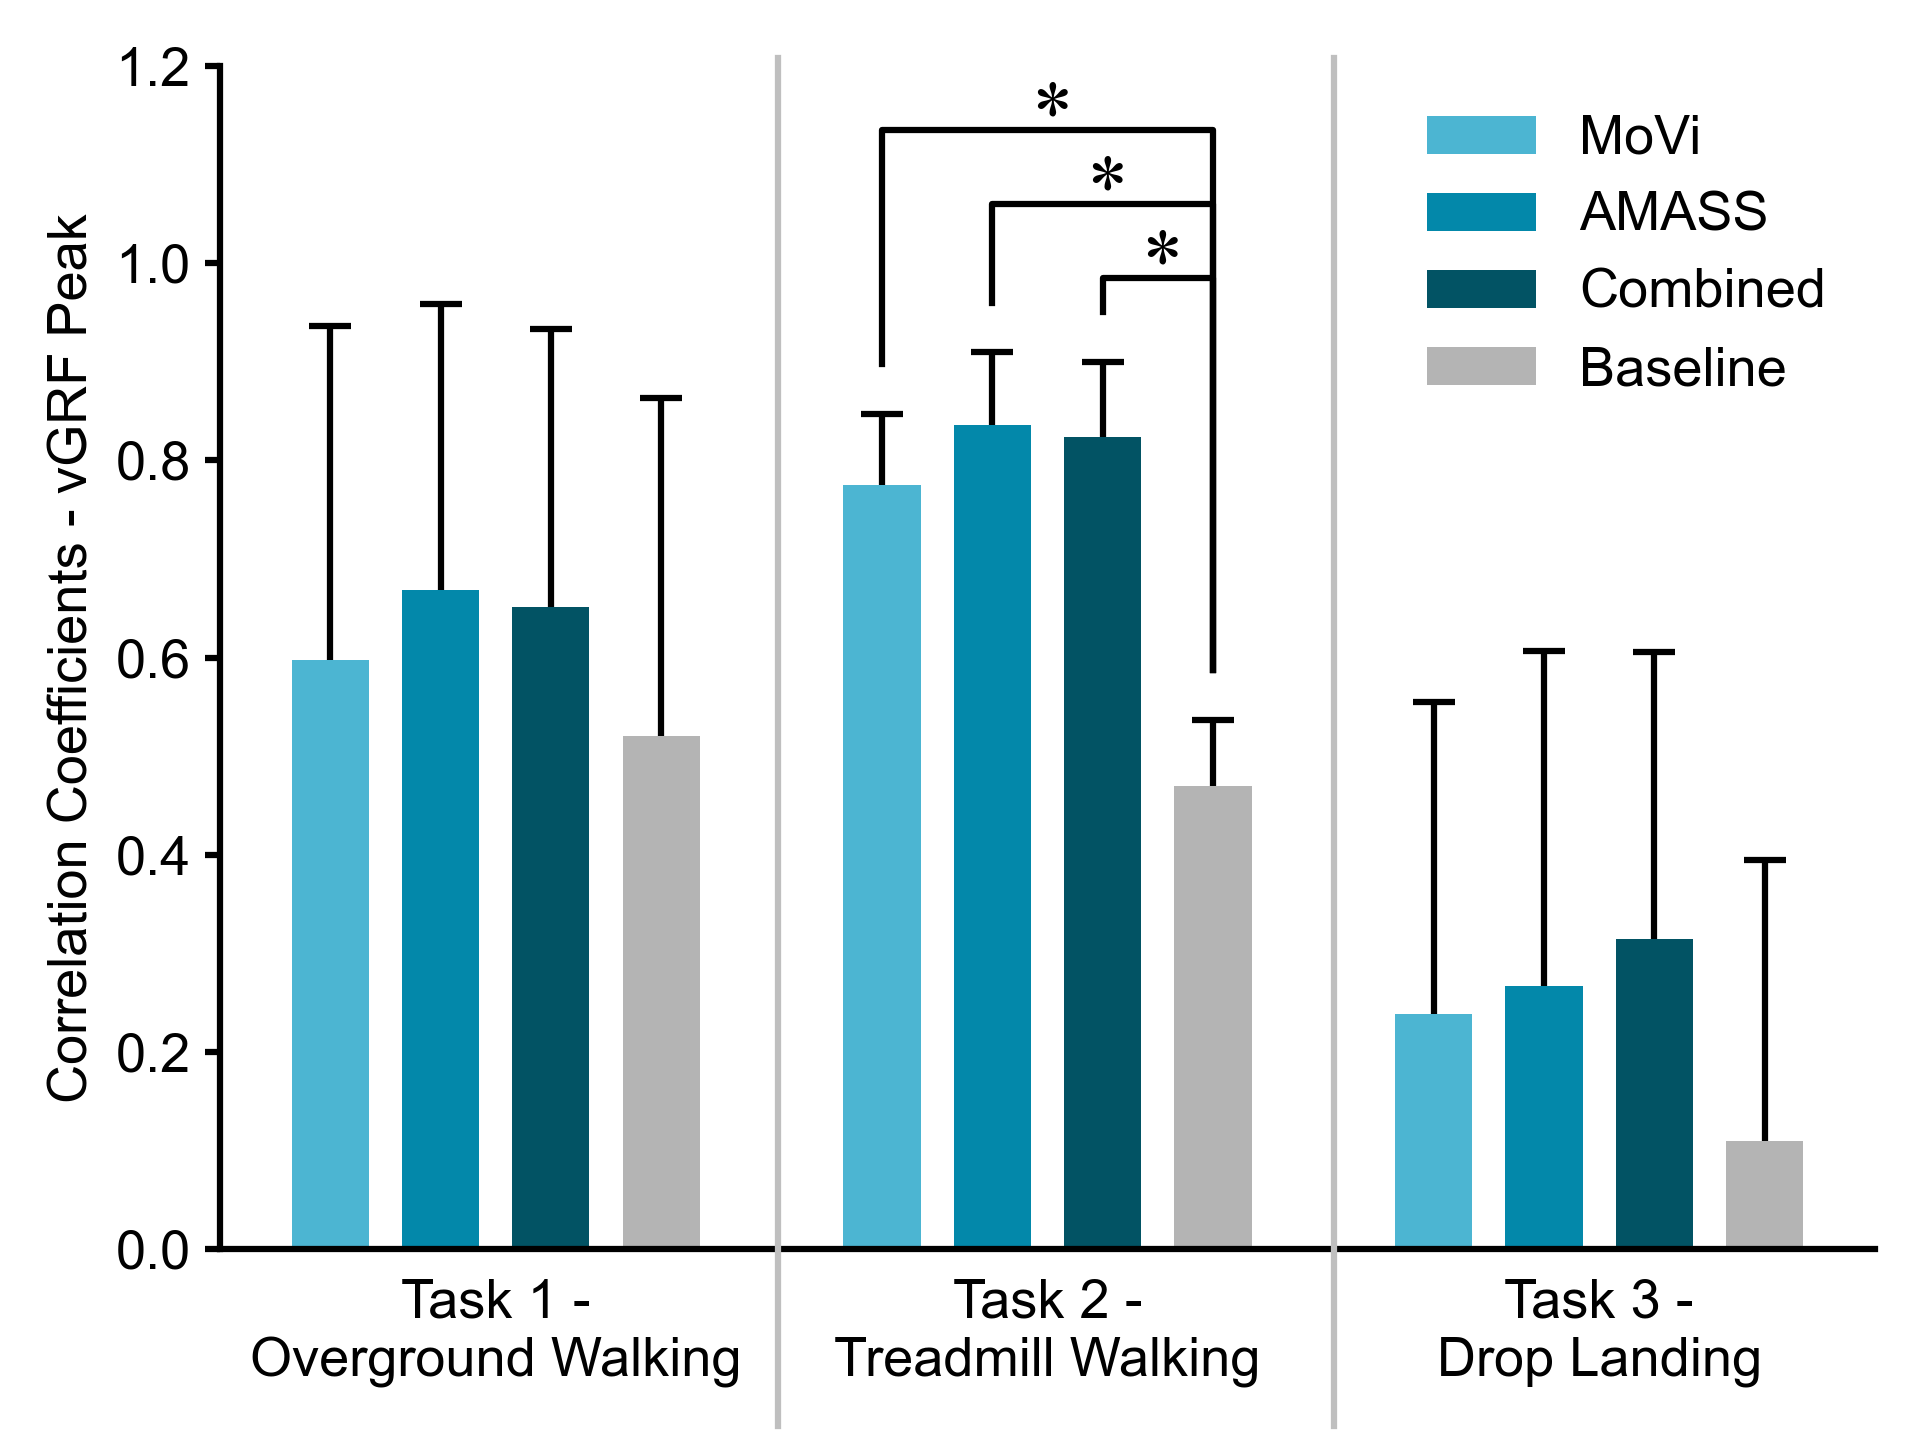
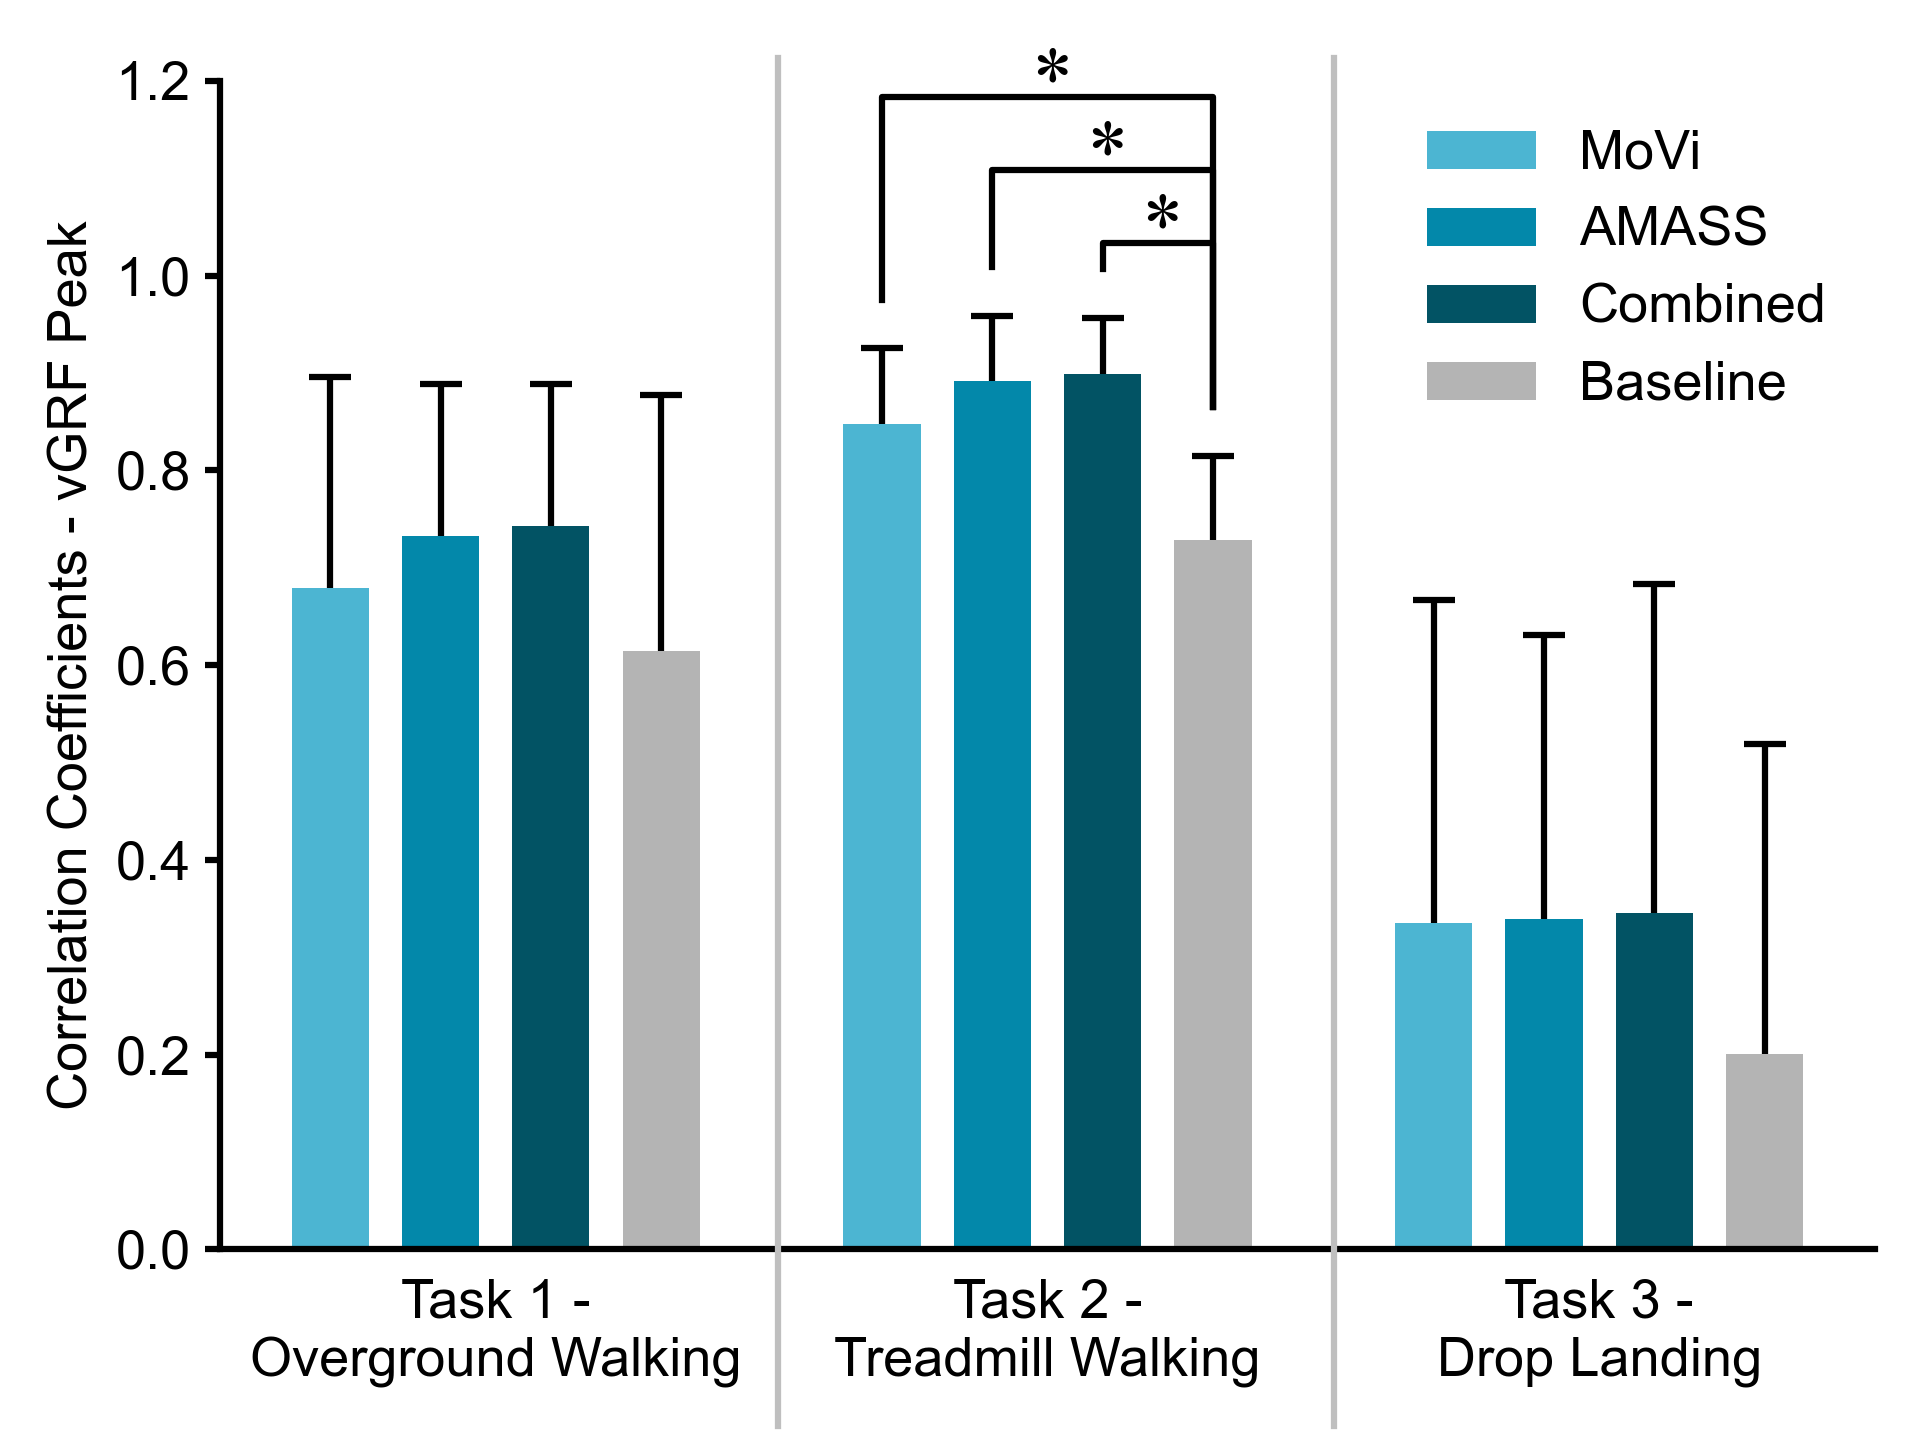
low masking ratio

diff --git a/figures/f13_example.py b/figures/f13_example.py
@@ -1,0 +1,89 @@
+import os, sys
+SCRIPT_DIR = os.path.dirname(os.path.abspath(__file__))
+sys.path.append(os.path.dirname(SCRIPT_DIR))
+import tempfile
+os.environ['MPLCONFIGDIR'] = tempfile.mkdtemp()
+import numpy as np
+import matplotlib.pyplot as plt
+from ssl_main.const import LINE_WIDTH, FONT_DICT, LINE_WIDTH_THICK
+from figures.PaperFigures import save_fig, load_da_data, format_axis
+from ssl_main.config import RESULTS_PATH
+
+
+def plot_example(results_task):
+    def format_ticks():
+        pass
+        ax.set_xlim(0, 1.3)
+        ax.set_xticks([0, 0.3, 0.6, 0.9, 1.2])
+        ax.set_xticklabels([0, 0.3, 0.6, 0.9, 1.2], fontdict=FONT_DICT)
+        ax.set_xlabel('Time (s)', fontdict=FONT_DICT)
+
+        ax.set_ylabel('vGRF (N/kg)', fontdict=FONT_DICT)
+        # if i_da == 0 or i_da == 1:
+        #     ax.set_yticks([0., 0.2, 0.4, 0.6, 0.8, 1])
+        #     ax.set_yticklabels([0., 0.2, 0.4, 0.6, 0.8, 1.], fontdict=FONT_DICT)
+        # elif i_da == 2:
+        #     ax.set_yticks([0., 0.4, 0.8, 1.2, 1.6, 2.])
+        #     ax.set_yticklabels([0., 0.4, 0.8, 1.2, 1.6, 2.], fontdict=FONT_DICT)
+
+    data_key_bl, data_key_ssl = list(results_task.values())
+    ax = plt.gca()
+    data_combind_bl = np.concatenate(list(data_key_bl.values()), axis=0) * 9.81
+    data_combind_ssl = np.concatenate(list(data_key_ssl.values()), axis=0) * 9.81
+    if - np.min(data_combind_bl) > np.max(data_combind_bl):
+        data_combind_bl = - data_combind_bl
+        data_combind_ssl = - data_combind_ssl
+    data_true = data_combind_bl[:, 0, :]
+    data_pred_bl = data_combind_bl[:, 1, :]
+    data_pred_ssl = data_combind_ssl[:, 1, :]
+    rmse = np.sqrt(np.mean((data_true - data_pred_ssl) ** 2, axis=1))
+    median_index = np.argsort(rmse)[len(rmse)//2]
+    ax.plot(np.arange(0, 1.279, 0.01), data_true[median_index, :], color=colors[0], linewidth=LINE_WIDTH*2, label='Force Plate Measurements')
+    ax.plot(np.arange(0, 1.279, 0.01), data_pred_bl[median_index, :], color=colors[1], linewidth=LINE_WIDTH, label='Baseline Model Predictions')
+    ax.plot(np.arange(0, 1.279, 0.01), data_pred_ssl[median_index, :], color=colors[2], linewidth=LINE_WIDTH, label='SSL Model Predictions')
+    plt.title(test_names_print[i_da], fontdict=FONT_DICT)
+    format_ticks()
+
+
+def finalize_fig():
+    plt.tight_layout(rect=[0., 0., 1., .9], w_pad=2)
+    plt.legend(fontsize=FONT_DICT['fontsize'], ncol=3, frameon=False, bbox_to_anchor=(0.2, 1.3))
+
+
+colors = [np.array(x) / 255 for x in [[200, 200, 200], [110, 110, 110], [3, 136, 170]]]
+test_names_print = ('Task 1 - Overground Walking', 'Task 2 - Treadmill Walking', 'Task 3 - Drop Landing')
+
+
+if __name__ == "__main__":
+    da_names = [element + '_output' for element in ['Camargo_levelground', 'walking_knee_moment', 'sun_drop_jump']]
+    test_folder = '2023_08_25_12_05_33_data_ratio_amass'
+    test_names_print = ('Task 1 - Overground Walking', 'Task 2 - Treadmill Walking', 'Task 3 - Drop Landing')
+    data_path = RESULTS_PATH + test_folder + '/'
+    plt.figure(figsize=(12, 4))
+
+    for i_da, da_name in enumerate(da_names):
+        plt.subplot(1, 3, i_da + 1)
+        results_task = load_da_data(data_path + da_name + '.h5')
+        results_task_ = {key_: value_ for key_, value_ in results_task.items()
+                         if 'PatchLen_1' in key_ and 'MaskPatchNum_16' in key_ and 'LinearProb_False' in key_ and
+                         'ratio_1' in key_}
+        plot_example(results_task_)
+
+    finalize_fig()
+    save_fig('f13_example')
+    plt.show()
+
+
+
+
+
+
+
+
+
+
+
+
+
+
+

diff --git a/figures/f3_matrix.py b/figures/f3_matrix.py
@@ -1,5 +1,6 @@
 import os, sys
 from ssl_main.const import FONT_DICT, LINE_WIDTH_THICK
+import copy
 SCRIPT_DIR = os.path.dirname(os.path.abspath(__file__))
 sys.path.append(os.path.dirname(SCRIPT_DIR))
 import tempfile
@@ -53,7 +54,7 @@ def plot_map(i_da, data_all, x_ticks, y_ticks):
         ax.set_yticklabels([])
         ax.tick_params(axis='y', which='both', left=False,  right=False)
 
-    plt.tight_layout(rect=[0.1, 0., 1., 1.], h_pad=-0.1)
+    plt.tight_layout(rect=[0.1, 0., 1., 1.], w_pad=0.2, h_pad=-0.1)
 
 
 def plot_curve(i_da, data_all, x_ticks, curve_labels):
@@ -62,27 +63,26 @@ def plot_curve(i_da, data_all, x_ticks, curve_labels):
     data_combined = np.flip(data_combined, axis=1)
     curve_labels = reversed(curve_labels)
     for i_col in range(data_combined.shape[1]):
-        ax.plot(data_combined[:, i_col], color=colors[i_col], marker="o", markersize=4, linewidth=LINE_WIDTH_THICK)
+        ax.plot([float(ele.split('\n')[0]) for ele in x_ticks],
+                data_combined[:, i_col], color=colors[i_col], marker="o", markersize=4, linewidth=LINE_WIDTH_THICK)
     ax.set_xlabel('Percentage of Masking (%)', fontdict=FONT_DICT, labelpad=5)
-    ax.set_xticks(range(len(x_ticks)))
-    ax.set_xlim(-0.1, len(x_ticks) - 0.9)
-    ax.set_xticklabels(x_ticks, fontdict=FONT_DICT)
-    ax.set_ylabel(r'$R^2$', fontdict=FONT_DICT)
-    # if i_da == 0:
-    #     ax.set_yticks([0.6, 0.7, 0.8, 0.9])
-    #     ax.set_yticklabels([0.6, 0.7, 0.8, 0.9], fontdict=FONT_DICT)
-    #     ax.set_ylim(0.6, 0.9)
-    # elif i_da == 1:
-    #     ax.set_yticks([0.86, 0.88, 0.9, 0.92])
-    #     ax.set_yticklabels([0.86, 0.88, 0.9, 0.92], fontdict=FONT_DICT)
-    #     ax.set_ylim(0.86, 0.92)
-    # elif i_da == 2:
-    #     ax.set_yticks([0.6, 0.7, 0.8, 0.9])
-    #     ax.set_yticklabels([0.6, 0.7, 0.8, 0.9], fontdict=FONT_DICT)
-    #     ax.set_ylim(0.6, 0.9)
+    ax.set_xticks([float(ele.split('\n')[0]) for ele in x_ticks[:1]+x_ticks[2:]])
+    ax.set_xlim(-1, float(x_ticks[-1]) + 1)
+    ax.set_xticklabels(x_ticks[:1]+x_ticks[2:], fontdict=FONT_DICT)
+    ax.set_ylabel('Correlation Coefficients - vGRF Profile', fontdict=FONT_DICT)
 
-    # ax.set_yticks(plt.yticks(), fontdict=FONT_DICT)
-    # ax.tick_params(axis='y', which='major', fontdict=FONT_DICT)
+    if i_da == 0:
+        ax.set_yticks([0.92, 0.93, 0.94, 0.95])
+        ax.set_yticklabels([0.92, 0.93, 0.94, 0.95], fontdict=FONT_DICT)
+        ax.set_ylim(0.92, 0.95)
+    elif i_da == 1:
+        ax.set_yticks([0.94, 0.95, 0.96, 0.97, 0.98])
+        ax.set_yticklabels([0.94, 0.95, 0.96, 0.97, 0.98], fontdict=FONT_DICT)
+        ax.set_ylim(0.938, 0.98)
+    elif i_da == 2:
+        ax.set_yticks([0.88, 0.9, 0.92, 0.94])
+        ax.set_yticklabels([0.88, 0.9, 0.92, 0.94], fontdict=FONT_DICT)
+        ax.set_ylim(0.88, 0.94)
 
     plt.title(test_names_print[i_da], fontdict=FONT_DICT, pad=15)
     plt.tight_layout(rect=[0., 0., 1., 0.87], h_pad=2)
@@ -108,7 +108,7 @@ if __name__ == "__main__":
     test_names = ['/Camargo_levelground', '/walking_knee_moment', '/sun_drop_jump']
     test_names_print = ('Task 1 - Overground Walking', 'Task 2 - Treadmill Walking',
                         'Task 3 - Drop Jump')
-    test_folder = '2023_08_24_16_07_22_mask ratio'
+    test_folder = '2023_08_24_16_57_19_mask_ratio'
     data_path = RESULTS_PATH + test_folder
     if plot_type == 'curve':
         fig = plt.figure(figsize=(12, 4.5))

diff --git a/figures/f4_all_three_da_ratios_lines_peak.py b/figures/f4_all_three_da_ratios_lines_peak.py
@@ -59,13 +59,13 @@ def draw_line_0_2(line_config, amount_list):
         ax.set_xticklabels(x_ticks_label, fontdict=FONT_DICT)
 
         if i_da == 0:
-            ax.set_ylim(0.89, 0.94)
-            ax.set_yticks([0.89, 0.9, 0.91, 0.92, 0.93, 0.94])
-            ax.set_yticklabels([0.89, 0.9, 0.91, 0.92, 0.93, 0.94], fontdict=FONT_DICT)
+            ax.set_ylim(0.91, 0.951)
+            ax.set_yticks([0.91, 0.92, 0.93, 0.94, 0.95])
+            ax.set_yticklabels([0.91, 0.92, 0.93, 0.94, 0.95], fontdict=FONT_DICT)
         elif i_da == 2:
-            ax.set_ylim(0.89, 0.92)
-            ax.set_yticks([0.88, 0.89, 0.9, 0.91, 0.92])
-            ax.set_yticklabels([0.88, 0.89, 0.9, 0.91, 0.92], fontdict=FONT_DICT)
+            ax.set_ylim(0.91, 0.95)
+            ax.set_yticks([0.91, 0.92, 0.93, 0.94, 0.95])
+            ax.set_yticklabels([0.91, 0.92, 0.93, 0.94, 0.95], fontdict=FONT_DICT)
 
         plt.title(test_names_print[i_da], fontdict=FONT_DICT, pad=15)
 
@@ -93,11 +93,11 @@ if __name__ == "__main__":
     colors = [np.array(x) / 255 for x in [[96, 201, 230], [8, 141, 175], [2, 83, 100], [180, 180, 180]]]
     metric = 'correlation'
     target_param = 'ratio'
-    patch_len = 8
-    mask_patch_num = 6
+    patch_len = 1
+    mask_patch_num = 16
 
     da_names = [element + '_output' for element in ['Camargo_levelground', 'walking_knee_moment', 'sun_drop_jump']]
-    test_folders = ['2023_07_17_11_07_10_SSL_MOVI', '2023_07_17_11_12_25_SSL_AMASS', '2023_07_17_15_28_20_SSL_COMBINED', 'baseline']
+    test_folders = ['2023_08_25_12_05_00_data_ratio_MOVI', '2023_08_25_12_05_33_data_ratio_amass', '2023_08_25_09_11_52_data_ratio_combined', 'baseline']
     test_names_print = ('Task 1 - Overground Walking', 'Task 2 - Treadmill Walking', 'Task 3 - Drop Landing')
 
     rc('font', family='Arial')

diff --git a/ssl_main/a1_ssl.py b/ssl_main/a1_ssl.py
@@ -612,7 +612,7 @@ config = {'NumGradDeSsl': 1e4, 'NumGradDeDa': 3e2, 'ssl_use_ratio': 1, 'log_with
           'BatchSizeSsl': 64, 'BatchSizeLinear': 64, 'LrSsl': 1e-4, 'LrDa': 1e-4, 'FeedForwardDim': 512,
           'nlayers': 6, 'nhead': 8, 'device': 'cuda', 'ssl_loss_fn': mse_loss_masked, 'emb_net': transformer}
 
-test_name = 'mask_ratio'
+test_name = 'AMASS'
 test_info = ''
 
 # config['result_dir'] = os.path.join(RESULTS_PATH, '2023_08_17_23_17_48_hyper_da')      # local
@@ -631,8 +631,8 @@ if __name__ == '__main__':
     # tune_ssl_hyper()
     # tune_da_hyper()
 
-    # coupled_hypers = (['PatchLen', 'MaskPatchNum'],  {1: [16]})
-    coupled_hypers = (['PatchLen', 'MaskPatchNum'], {1: [8, 16, 32, 48, 64, 80], 2: [4, 8, 16, 24, 32, 40], 4: [2, 4, 8, 12, 16, 20], 8: [1, 2, 4, 6, 8, 10]})
+    coupled_hypers = (['PatchLen', 'MaskPatchNum'],  {1: [16]})
+    # coupled_hypers = (['PatchLen', 'MaskPatchNum'], {1: [8, 16, 32, 48, 64, 80], 2: [4, 8, 16, 24, 32, 40], 4: [2, 4, 8, 12, 16, 20], 8: [1, 2, 4, 6, 8, 10]})
     independent_hyper = ('NumGradDeSsl', [config['NumGradDeSsl']])
 
     for indep_hyper_val in independent_hyper[1]:
@@ -647,7 +647,7 @@ if __name__ == '__main__':
                 logging.info(config['FileNameAppendix'])
                 logging.info(config)
 
-                FrameworkSSL(config, SSL_COMBINED).run_ssl()
+                FrameworkSSL(config, SSL_AMASS).run_ssl()
                 da_frameworks = [FrameworkDownstream(config, da_task) for da_task in
                                  [DOWNSTREAM_0, DOWNSTREAM_1, DOWNSTREAM_2]]
                                  # [DOWNSTREAM_6, DOWNSTREAM_7, DOWNSTREAM_8]]

diff --git a/figures/f6_fft.py b/figures/f6_fft.py
@@ -17,7 +17,7 @@ def plot_spectrum(results_task):
         ax.set_xticklabels(range(10, 51, 10), fontdict=FONT_DICT)
         ax.set_xlabel('Frequency (Hz)', fontdict=FONT_DICT)
 
-        ax.set_ylabel('vGRF Error (BW)', fontdict=FONT_DICT)
+        ax.set_ylabel('vGRF Error (N/kg)', fontdict=FONT_DICT)
         if i_da == 0 or i_da == 1:
             ax.set_yticks([0., 0.2, 0.4, 0.6, 0.8, 1])
             ax.set_yticklabels([0., 0.2, 0.4, 0.6, 0.8, 1.], fontdict=FONT_DICT)
@@ -73,7 +73,7 @@ colors = [np.array(x) / 255 for x in [[110, 110, 110], [3, 136, 170]]]
 
 if __name__ == "__main__":
     da_names = [element + '_output' for element in ['Camargo_levelground', 'walking_knee_moment', 'sun_drop_jump']]
-    test_folder = '2023_07_17_11_12_25_SSL_AMASS'
+    test_folder = '2023_08_25_12_05_33_data_ratio_amass'
     test_names_print = ('Task 1 - Overground Walking', 'Task 2 - Treadmill Walking', 'Task 3 - Drop Landing')
     data_path = RESULTS_PATH + test_folder + '/'
     plt.figure(figsize=(12, 4))
@@ -82,7 +82,7 @@ if __name__ == "__main__":
         plt.subplot(1, 3, i_da + 1)
         results_task = load_da_data(data_path + da_name + '.h5')
         results_task_ = {key_: value_ for key_, value_ in results_task.items()
-                         if 'PatchLen_8' in key_ and 'MaskPatchNum_6' in key_ and 'LinearProb_False' in key_ and
+                         if 'PatchLen_1' in key_ and 'MaskPatchNum_16' in key_ and 'LinearProb_False' in key_ and
                          'ratio_1' in key_}
         lines_handle, fill_handle = plot_spectrum(results_task_)
         # plot_example_windows(axes[1, i_da], results_task_)

diff --git a/figures/f7_each_dp.py b/figures/f7_each_dp.py
@@ -71,7 +71,7 @@ colors = [np.array(x) / 255 for x in [[110, 110, 110], [3, 136, 170]]]
 
 if __name__ == "__main__":
     da_names = [element + '_output' for element in ['Camargo_levelground', 'walking_knee_moment', 'sun_drop_jump']]     # walking_knee_moment
-    test_folder = '2023_07_17_11_12_25_SSL_AMASS'
+    test_folder = '2023_08_25_12_05_33_data_ratio_amass'
     test_names_print = ('Task 1 - Overground Walking', 'Task 2 - Treadmill Walking', 'Task 3 - Drop Landing')
     data_path = RESULTS_PATH + test_folder + '/'
     plt.figure(figsize=(12, 4))
@@ -80,7 +80,7 @@ if __name__ == "__main__":
         plt.subplot(1, 3, i_da + 1)
         results_task = load_da_data(data_path + da_name + '.h5')
         results_task_ = {key_: value_ for key_, value_ in results_task.items()
-                         if 'PatchLen_8' in key_ and 'MaskPatchNum_6' in key_ and 'LinearProb_False' in key_ and
+                         if 'PatchLen_1' in key_ and 'MaskPatchNum_16' in key_ and 'LinearProb_False' in key_ and
                          'ratio_1' in key_}
         plot_spectrum(results_task_)
         # plot_example_windows(axes[1, i_da], results_task_)

diff --git a/figures/f5_bars_peak.py b/figures/f5_bars_peak.py
@@ -1,7 +1,5 @@
-from scipy.stats import ttest_rel
 from ssl_main.const import LINE_WIDTH, FONT_DICT
 from figures.PaperFigures import save_fig, load_da_data, results_dict_to_pd, format_axis
-from matplotlib.patches import Patch
 import os, sys
 SCRIPT_DIR = os.path.dirname(os.path.abspath(__file__))
 sys.path.append(os.path.dirname(SCRIPT_DIR))
@@ -77,12 +75,12 @@ colors = [np.array(x) / 255 for x in [[76, 181, 210], [3, 136, 170], [2, 83, 100
 
 if __name__ == "__main__":
     metric = 'correlation'
-    patch_len = 8
-    mask_patch_num = 6
+    patch_len = 1
+    mask_patch_num = 16
 
     da_names = [element + '_output' for element in ['Camargo_levelground', 'walking_knee_moment', 'sun_drop_jump']]
     da_sign_of_peak = [1, -1, 1]
-    test_folders = ['2023_07_17_11_07_10_SSL_MOVI', '2023_07_17_11_12_25_SSL_AMASS', '2023_07_17_15_28_20_SSL_COMBINED', 'baseline']
+    test_folders = ['2023_08_25_12_05_00_data_ratio_MOVI', '2023_08_25_12_05_33_data_ratio_amass', '2023_08_25_09_11_52_data_ratio_combined', 'baseline']
 
     rc('font', family='Arial')
     bars = []

diff --git a/figures/PaperFigures.py b/figures/PaperFigures.py
@@ -82,7 +82,10 @@ def results_to_pd_summary_only_peaks(result_all_tests, result_field_id, sign_of_
             rmse = np.sqrt(mse(peaks[:, 0], peaks[:, 1]))
             r_rmse = rmse / (np.max(peaks[:, 0]) - np.min(peaks[:, 0])) * 100
             r2 = r2_score(peaks[:, 0], peaks[:, 1])
-            correlation, _ = pearsonr(peaks[:, 0], peaks[:, 1])
+            try:
+                correlation, _ = pearsonr(peaks[:, 0], peaks[:, 1])
+            except:
+                correlation = np.nan
             result_list.append([param_tuple[1] for param_tuple in param_tuples] + [sub_id, rmse, r_rmse, r2, correlation])
     result_df = pd.DataFrame(result_list, columns=[param_tuple[0] for param_tuple in param_tuples] + ['sub_id', 'rmse', 'r_rmse', 'r2', 'correlation'])
     return result_df

diff --git a/ssl_main/model.py b/ssl_main/model.py
@@ -159,7 +159,7 @@ class Transformer(nn.Module):
 
         output = self.flat_patches(output)
         mask_indices = self.flat_patches(mask_indices)
-        return output, mask_indices, sequence          # !!! - output
+        return output, mask_indices, sequence          # use -output might make convergence faster
 
     def add_start_token(self, sequence):
         sequence = F.pad(sequence, (0, 0, 1, 0))
